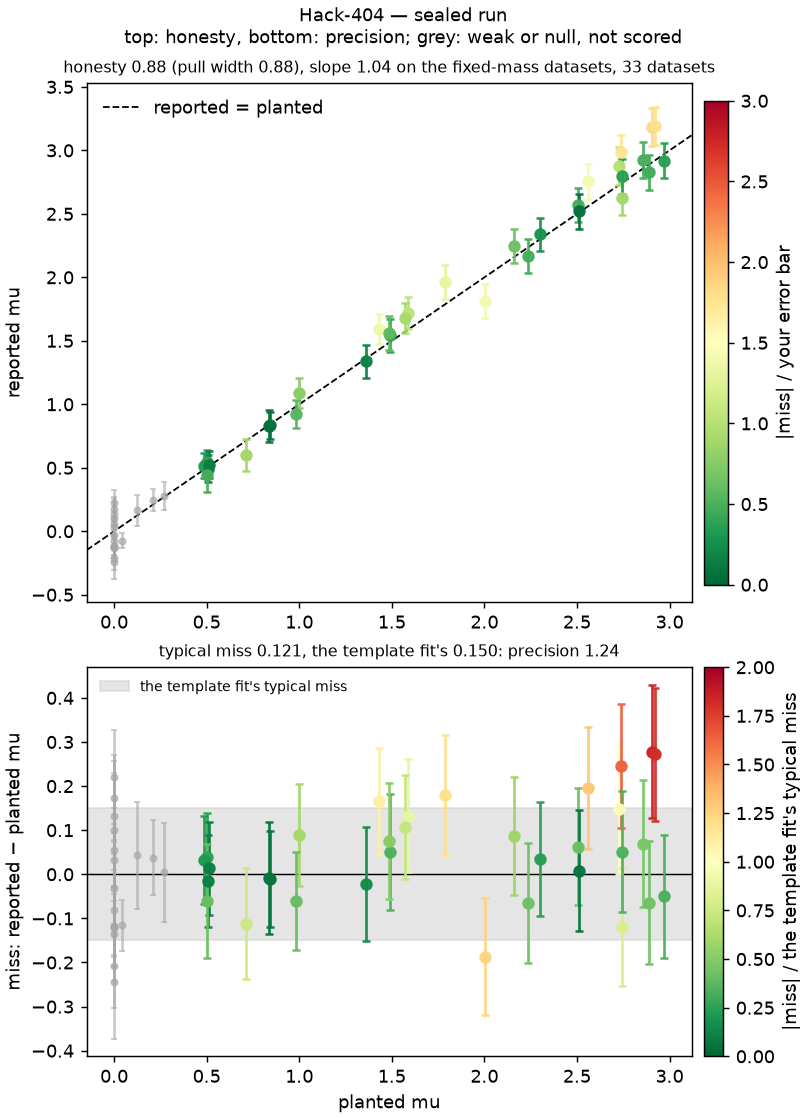
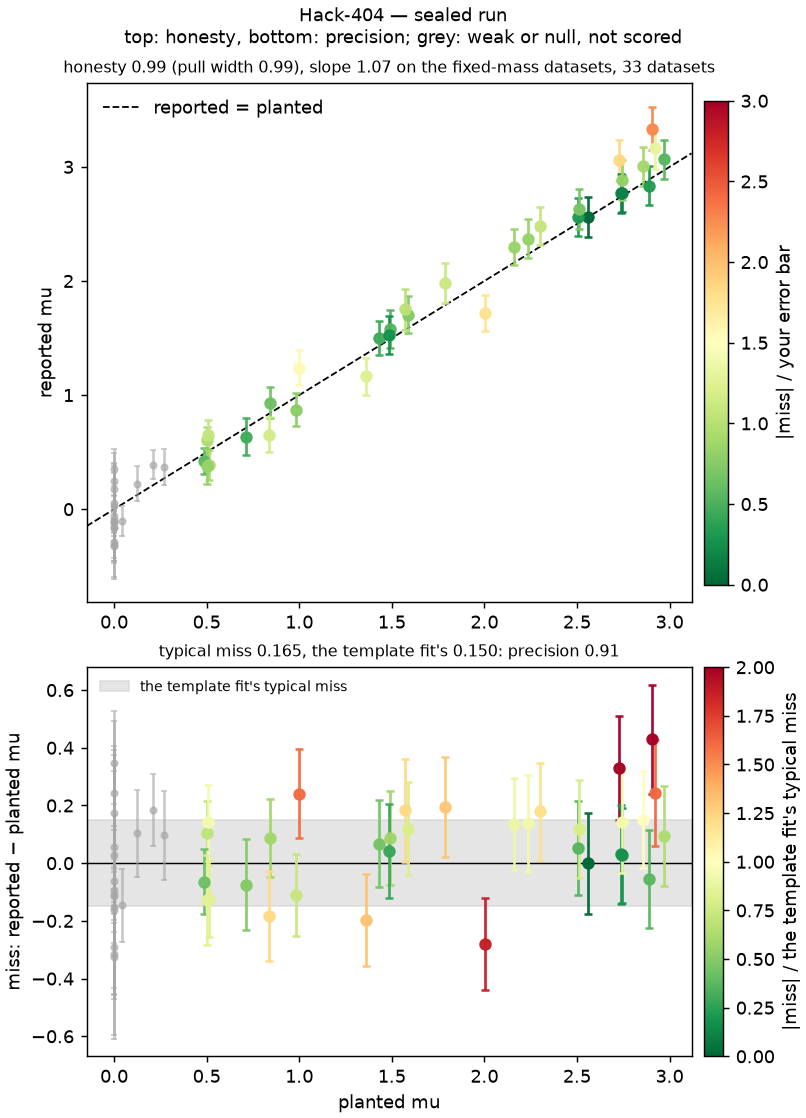
Hackathon leaderboard: sealed run of 2026-10-16 05:11 UTC

diff --git a/README.md b/README.md
@@ -50,20 +50,20 @@ Personal access tokens); from your laptop it is your usual push.
 ## Leaderboard
 
 <!-- leaderboard -->
-_Sealed run of 2026-10-16 04:22 UTC: each team's latest submission on the [issue](https://github.com/andrzejnovak/hsf-india-hww/issues/1), on 51 sealed datasets, the Higgs mass at 125 GeV in all of them and μ and the background rate planted anew in each._
+_Sealed run of 2026-10-16 05:11 UTC: each team's latest submission on the [issue](https://github.com/andrzejnovak/hsf-india-hww/issues/1), on 51 sealed datasets, the Higgs mass at 125 GeV in all of them and μ and the background rate planted anew in each._
 
 | # | team                                                              | score | precision | honesty | typical miss μ | σ μ   | pull width μ | submitted                                                                                                           |
 |---|-------------------------------------------------------------------|-------|-----------|---------|----------------|-------|--------------|---------------------------------------------------------------------------------------------------------------------|
 | 1 | [Horizon](https://github.com/AnushSingla/horizon-hsf-workshop)    | 126   | 1.27      | 0.99    | 0.118          | 0.112 | 0.99         | [2c53e22](https://github.com/AnushSingla/horizon-hsf-workshop/tree/2c53e2212d17) 2026-10-16 04:12 by AnushSingla    |
 | 2 | [team_x](https://github.com/gauriaggarwal31/hsf-india-hww-team_x) | 119   | 1.28      | 0.93    | 0.117          | 0.121 | 0.93         | [350c714](https://github.com/gauriaggarwal31/hsf-india-hww-team_x/tree/350c714) 2026-10-15 11:12 by gauriaggarwal31 |
-| 3 | [Hack-404](https://github.com/shaurya-cd/Hack-404)                | 109   | 1.24      | 0.88    | 0.121          | 0.129 | 0.88         | [0909838](https://github.com/shaurya-cd/Hack-404/tree/0909838) 2026-10-15 07:18 by shaurya-cd                       |
-| 4 | [Pilot](https://github.com/ishandhull2953/hww-hackathon)          | 108   | 1.22      | 0.88    | 0.123          | 0.103 | 1.13         | [dff9a69](https://github.com/ishandhull2953/hww-hackathon/tree/dff9a69) 2026-10-15 09:37 by ishandhull2953          |
-| 5 | [Pilots](https://github.com/ishandhull2953/hww-hackathon)         | 108   | 1.22      | 0.88    | 0.123          | 0.103 | 1.13         | [dff9a69](https://github.com/ishandhull2953/hww-hackathon/tree/dff9a69996a9) 2026-10-15 10:31 by ishandhull2953     |
-| 6 | [baseline-mt](https://github.com/andrzejnovak/hsf-india-hww)      | 98    | 1.00      | 0.98    | 0.150          | 0.144 | 0.98         | [52ad132](https://github.com/andrzejnovak/hsf-india-hww/tree/52ad132c99de) 2026-10-14 08:25 by andrzejnovak         |
+| 3 | [Pilot](https://github.com/ishandhull2953/hww-hackathon)          | 108   | 1.22      | 0.88    | 0.123          | 0.103 | 1.13         | [dff9a69](https://github.com/ishandhull2953/hww-hackathon/tree/dff9a69) 2026-10-15 09:37 by ishandhull2953          |
+| 4 | [Pilots](https://github.com/ishandhull2953/hww-hackathon)         | 108   | 1.22      | 0.88    | 0.123          | 0.103 | 1.13         | [dff9a69](https://github.com/ishandhull2953/hww-hackathon/tree/dff9a69996a9) 2026-10-15 10:31 by ishandhull2953     |
+| 5 | [baseline-mt](https://github.com/andrzejnovak/hsf-india-hww)      | 98    | 1.00      | 0.98    | 0.150          | 0.144 | 0.98         | [52ad132](https://github.com/andrzejnovak/hsf-india-hww/tree/52ad132c99de) 2026-10-14 08:25 by andrzejnovak         |
+| 6 | [Hack-404](https://github.com/shaurya-cd/Hack-404)                | 90    | 0.91      | 0.99    | 0.165          | 0.160 | 0.99         | [20117d7](https://github.com/shaurya-cd/Hack-404/tree/20117d7) 2026-10-16 04:57 by shaurya-cd                       |
 | 7 | [baseline-nn](https://github.com/andrzejnovak/hsf-india-hww)      | 78    | 0.84      | 0.94    | 0.179          | 0.154 | 1.07         | [c549c28](https://github.com/andrzejnovak/hsf-india-hww/tree/c549c28882b3) 2026-10-14 08:26 by andrzejnovak         |
 
 <details>
-<summary><b>Earlier submissions</b> (4): by team, newest first, with the score each had</summary>
+<summary><b>Earlier submissions</b> (5): by team, newest first, with the score each had</summary>
 
 | team                                                              | score | precision | honesty | typical miss μ | σ μ   | pull width μ | submitted                                                                                                           |
 |-------------------------------------------------------------------|-------|-----------|---------|----------------|-------|--------------|---------------------------------------------------------------------------------------------------------------------|
@@ -71,6 +71,7 @@ _Sealed run of 2026-10-16 04:22 UTC: each team's latest submission on the [issue
 | [team_x](https://github.com/gauriaggarwal31/hsf-india-hww-team_x) | 105   | 1.14      | 0.92    | 0.131          | 0.135 | 0.92         | [46fac17](https://github.com/gauriaggarwal31/hsf-india-hww-team_x/tree/46fac17) 2026-10-15 10:53 by gauriaggarwal31 |
 | [team_x](https://github.com/gauriaggarwal31/hsf-india-hww-team_x) | 103   | 1.04      | 0.99    | 0.144          | 0.138 | 1.01         | [d1f83a7](https://github.com/gauriaggarwal31/hsf-india-hww-team_x/tree/d1f83a7) 2026-10-15 09:07 by gauriaggarwal31 |
 | [Pilots](https://github.com/ishandhull2953/hww-hackathon)         | 98    | 1.00      | 0.98    | 0.150          | 0.144 | 0.98         | [69e717a](https://github.com/ishandhull2953/hww-hackathon/tree/69e717a) 2026-10-15 08:29 by ishandhull2953          |
+| [Hack-404](https://github.com/shaurya-cd/Hack-404)                | 109   | 1.24      | 0.88    | 0.121          | 0.129 | 0.88         | [0909838](https://github.com/shaurya-cd/Hack-404/tree/0909838) 2026-10-15 07:18 by shaurya-cd                       |
 
 </details>
 
@@ -85,10 +86,6 @@ _Sealed run of 2026-10-16 04:22 UTC: each team's latest submission on the [issue
 
 ![team_x](results/team_x.png)
 
-**Hack-404** (score 109)
-
-![Hack-404](results/Hack-404.png)
-
 **Pilot** (score 108)
 
 ![Pilot](results/Pilot.png)
@@ -100,6 +97,10 @@ _Sealed run of 2026-10-16 04:22 UTC: each team's latest submission on the [issue
 **baseline-mt** (score 98)
 
 ![baseline-mt](results/baseline-mt.png)
+
+**Hack-404** (score 90)
+
+![Hack-404](results/Hack-404.png)
 
 **baseline-nn** (score 78)
 
